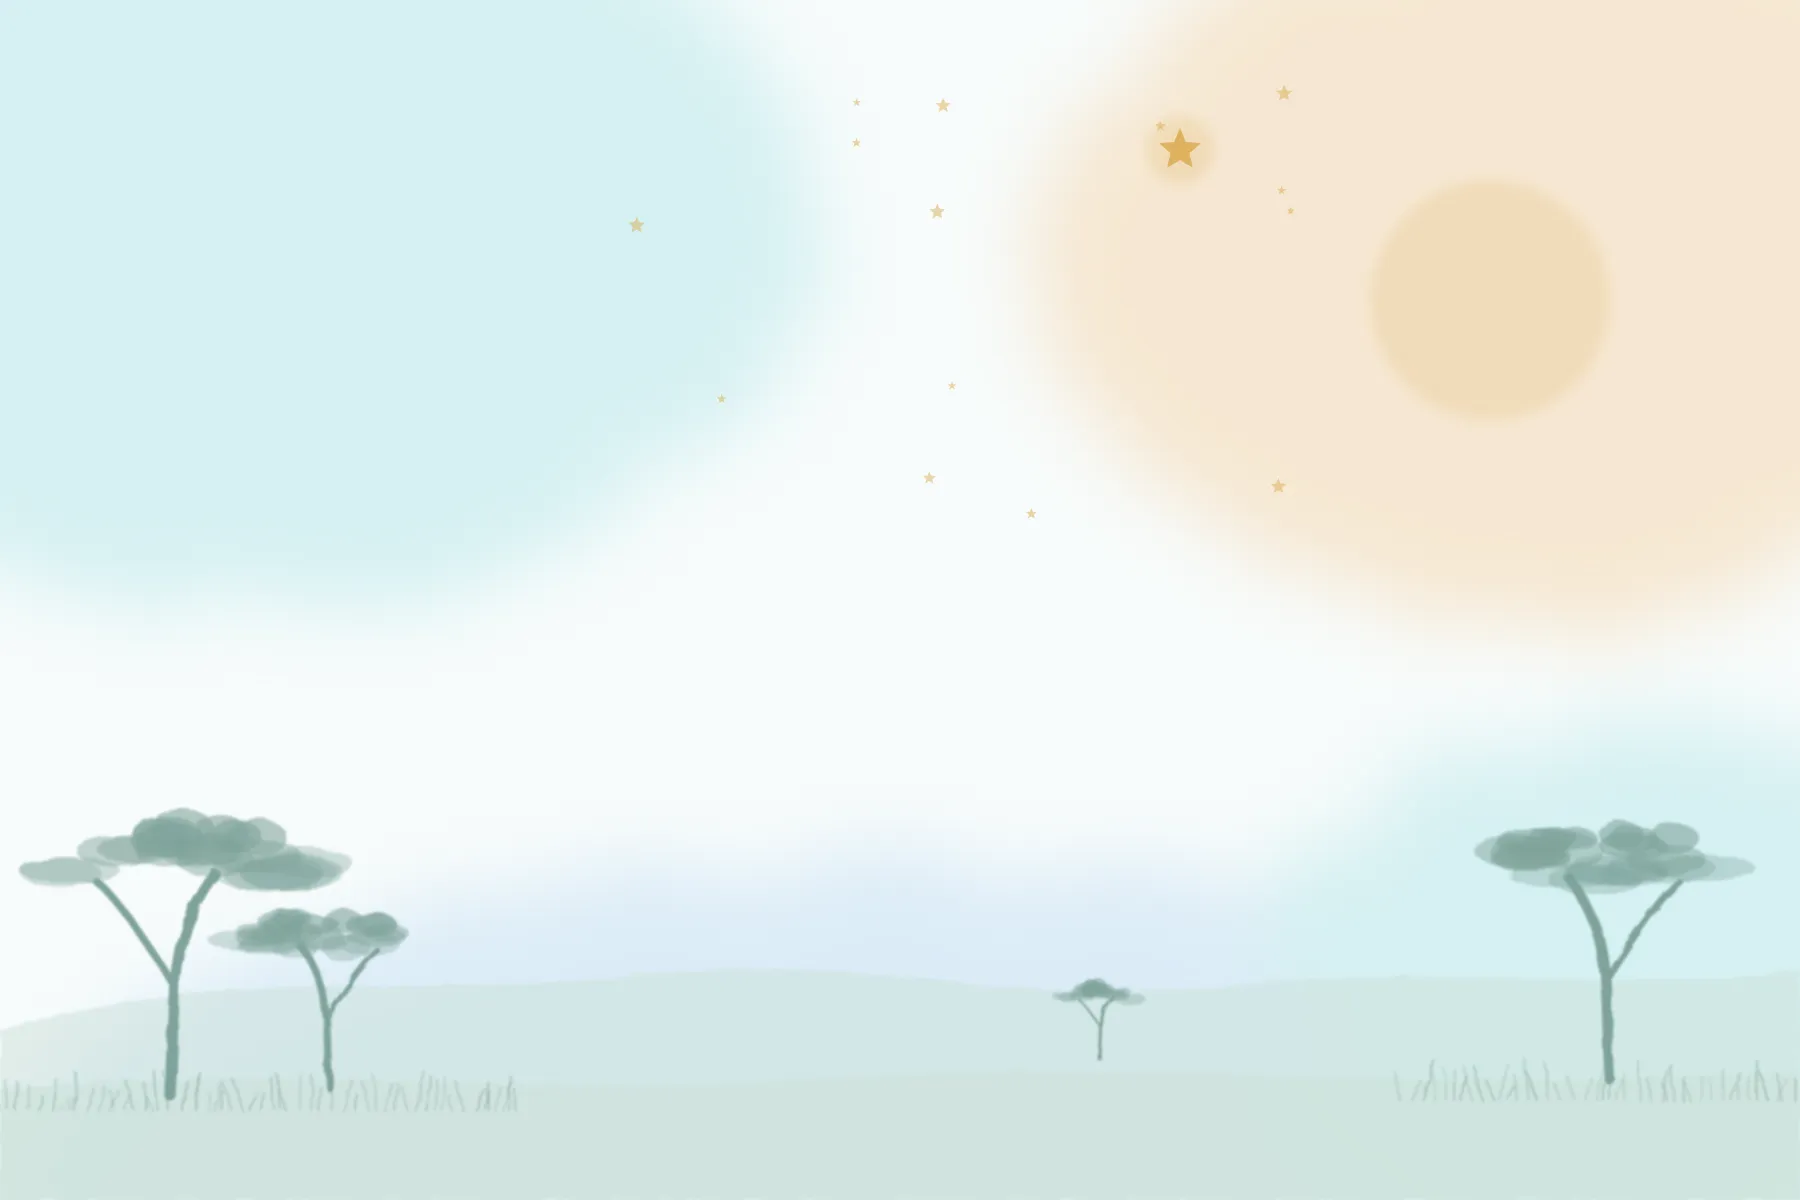
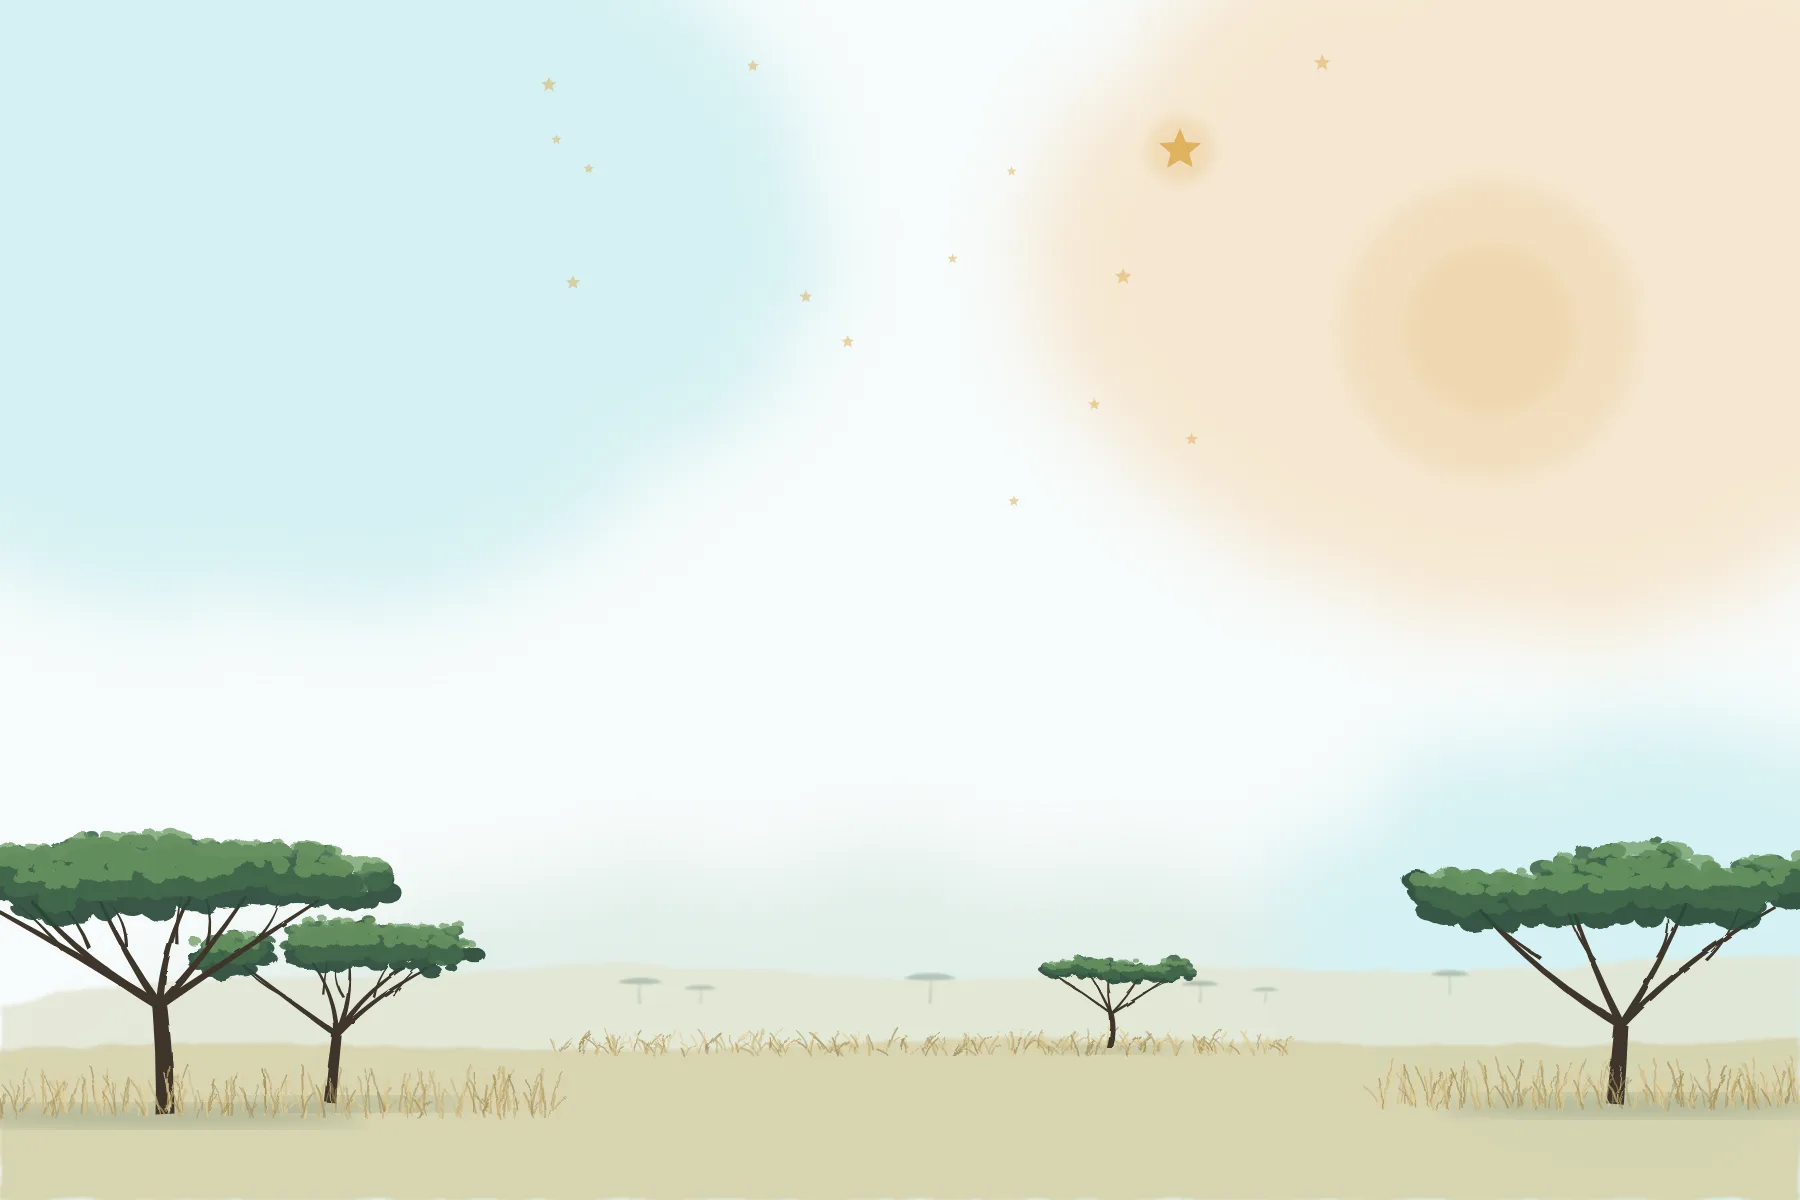
Repaint the savanna backgrounds with natural acacias
Umbrella thorn acacias now have a forked trunk with tapering limbs fanning
out to a wide, uneven crown of small leaf clusters in shade, leaf and
sunlit tones, with sky between the tiers and a soft ground shadow. Golden
grass tufts, a far line of hazy acacias on the horizon and a softer low sun
replace the flat shapes. Colours follow each scheme (dusk silhouettes in
Evening).

Claude-Session: https://claude.ai/code/session_01HFh4Kzq3CwbcJpqXKhK2f3

Changed region(s): [[0.0, 0.6783, 1.0, 1.0]]

diff --git a/scripts/paint_backgrounds.py b/scripts/paint_backgrounds.py
@@ -1,28 +1,81 @@
 #!/usr/bin/env python3
-"""Paint the soft watercolour backgrounds for each colour scheme: a savanna wash with acacia trees,
-distant hills and small gold stars ("We have seen his star", Matthew 2:2).
+"""Paint the soft watercolour backgrounds for each colour scheme: an East African savanna with umbrella thorn
+acacias, golden grass, distant hills and small gold stars ("We have seen his star", Matthew 2:2).
 
 Writes one SVG per scheme. Render each to services/web/app/static/art/<key>.webp at 1800x1200 so
 visitors' phones never compute the watercolour filters:
 
     python3 scripts/paint_backgrounds.py <out_dir>
-    (then open each SVG in a browser at 1800x1200, screenshot, save as WebP quality 80;
-     scripts/render_backgrounds.cjs does this with Playwright)
+    node scripts/render_backgrounds.cjs <out_dir>     (then convert the PNGs to WebP, quality 80)
 """
 
 import math
 import random
 import sys
+from dataclasses import dataclass
 from pathlib import Path
 
 W, H = 1800, 1200
 
-# key: paper, wash colours (top-left, top-right, bottom), hill colour, tree colour, star colour
+
+@dataclass(frozen=True)
+class Scheme:
+    paper: str
+    washes: tuple[str, str, str]  # top-left, top-right, bottom
+    hill: str
+    far_hill: str
+    canopy: tuple[str, str, str]  # shade, leaf, sunlit leaf
+    bark: str
+    grass: tuple[str, str, str]  # dry, darker, sunlit
+    haze: str  # distant trees
+    gold: str
+
+
 SCHEMES = {
-    "sunrise": ("#fdf8f2", ["#f9d9b8", "#f6c7b0", "#d9ece6"], "#e9cfae", "#b98c62", "#e2a93b"),
-    "coast": ("#f7fbfb", ["#cdeef0", "#f6e3c8", "#d4e8f6"], "#cfe3dc", "#7fa39a", "#d9a441"),
-    "highlands": ("#f8fbf4", ["#dcefd2", "#f4e7b8", "#cfe8e0"], "#c9ddb9", "#7d9a6a", "#d8a636"),
-    "evening": ("#fbf8fc", ["#e3d8f4", "#f7d6cf", "#d6e0f5"], "#ddd0e8", "#9d86ad", "#dcaa48"),
+    "sunrise": Scheme(
+        "#fdf8f2",
+        ("#f9d9b8", "#f6c7b0", "#e3eedf"),
+        "#e2c99f",
+        "#ecd9bd",
+        ("#3f4a22", "#5f6d2e", "#8e9a48"),
+        "#4a3424",
+        ("#c99a4e", "#a87c3a", "#e2bd78"),
+        "#b9a98a",
+        "#e2a93b",
+    ),
+    "coast": Scheme(
+        "#f7fbfb",
+        ("#cdeef0", "#f6e3c8", "#dcebe4"),
+        "#d6d2ad",
+        "#e3e6d4",
+        ("#2c4a38", "#436b4c", "#6e9a64"),
+        "#3e352b",
+        ("#c8b27a", "#a8935e", "#e0cc94"),
+        "#9fb3a6",
+        "#d9a441",
+    ),
+    "highlands": Scheme(
+        "#f8fbf4",
+        ("#dcefd2", "#f4e7b8", "#d6eadb"),
+        "#c5d6a6",
+        "#dde6cc",
+        ("#29452a", "#3f6a35", "#6f9a4c"),
+        "#40342a",
+        ("#a9b765", "#879a4c", "#cbd58a"),
+        "#9fb092",
+        "#d8a636",
+    ),
+    "evening": Scheme(
+        "#fbf8fc",
+        ("#e3d8f4", "#f7d6cf", "#e2dcef"),
+        "#d6c4d8",
+        "#e6dbe9",
+        ("#352c46", "#4a3f5e", "#665a7d"),
+        "#2b2436",
+        ("#a68aa2", "#8a7189", "#c4a9b9"),
+        "#b3a5c0",
+        "#dcaa48",
+    ),
 }
 
 FILTERS = """
@@ -32,12 +85,23 @@ FILTERS = """
     <feDisplacementMap in="SourceGraphic" in2="n" scale="90"/>
     <feGaussianBlur stdDeviation="38"/>
   </filter>
-  <filter id="wc" x="-20%" y="-20%" width="140%" height="140%">
-    <feTurbulence type="fractalNoise" baseFrequency="0.035" numOctaves="2" seed="4" result="n"/>
-    <feDisplacementMap in="SourceGraphic" in2="n" scale="7"/>
-    <feGaussianBlur stdDeviation="1.1"/>
+  <filter id="leaf" x="-10%" y="-30%" width="120%" height="160%">
+    <feTurbulence type="fractalNoise" baseFrequency="0.08" numOctaves="2" seed="3" result="n"/>
+    <feDisplacementMap in="SourceGraphic" in2="n" scale="5"/>
+    <feGaussianBlur stdDeviation="0.6"/>
   </filter>
+  <filter id="bark" x="-20%" y="-5%" width="140%" height="110%">
+    <feTurbulence type="fractalNoise" baseFrequency="0.05" numOctaves="2" seed="8" result="n"/>
+    <feDisplacementMap in="SourceGraphic" in2="n" scale="2.5"/>
+  </filter>
+  <filter id="hill" x="-5%" y="-20%" width="110%" height="140%">
+    <feTurbulence type="fractalNoise" baseFrequency="0.02" numOctaves="2" seed="5" result="n"/>
+    <feDisplacementMap in="SourceGraphic" in2="n" scale="10"/>
+    <feGaussianBlur stdDeviation="1.5"/>
+  </filter>
+  <filter id="haze"><feGaussianBlur stdDeviation="1.2"/></filter>
   <filter id="soft"><feGaussianBlur stdDeviation="6"/></filter>
+  <filter id="shadow"><feGaussianBlur stdDeviation="9"/></filter>
 </defs>
 """
 
@@ -51,83 +115,180 @@ def star(cx: float, cy: float, r: float) -> str:
     return " ".join(pts)
 
 
-def acacia(x: float, base: float, h: float, colour: str, rnd: random.Random, flip: bool = False) -> str:
-    """A flat-topped acacia: a forked trunk and a wide, layered umbrella canopy."""
-    s = -1 if flip else 1
-    top = base - h
-    trunk = (
-        f'<path d="M{x:.0f},{base:.0f} C{x + s * 6:.0f},{base - h * 0.4:.0f} {x - s * 4:.0f},{base - h * 0.62:.0f} '
-        f'{x + s * h * 0.18:.0f},{top + h * 0.12:.0f}" stroke="{colour}" stroke-width="{h * 0.045:.1f}" '
-        f'fill="none" stroke-linecap="round"/>'
-        f'<path d="M{x + s * 2:.0f},{base - h * 0.45:.0f} C{x - s * h * 0.1:.0f},{base - h * 0.62:.0f} '
-        f'{x - s * h * 0.22:.0f},{top + h * 0.2:.0f} {x - s * h * 0.3:.0f},{top + h * 0.14:.0f}" stroke="{colour}" '
-        f'stroke-width="{h * 0.03:.1f}" fill="none" stroke-linecap="round"/>'
+def limb(x0: float, y0: float, x1: float, y1: float, w0: float, w1: float, bend: float) -> str:
+    """A tapering branch from (x0, y0) to (x1, y1), as a filled shape so it narrows naturally."""
+    dx, dy = x1 - x0, y1 - y0
+    length = math.hypot(dx, dy) or 1
+    nx, ny = -dy / length, dx / length
+    cx, cy = (x0 + x1) / 2 + nx * bend, (y0 + y1) / 2 + ny * bend
+    return (
+        f"M{x0 + nx * w0 / 2:.1f},{y0 + ny * w0 / 2:.1f} "
+        f"Q{cx + nx * (w0 + w1) / 4:.1f},{cy + ny * (w0 + w1) / 4:.1f} {x1 + nx * w1 / 2:.1f},{y1 + ny * w1 / 2:.1f} "
+        f"L{x1 - nx * w1 / 2:.1f},{y1 - ny * w1 / 2:.1f} "
+        f"Q{cx - nx * (w0 + w1) / 4:.1f},{cy - ny * (w0 + w1) / 4:.1f} {x0 - nx * w0 / 2:.1f},{y0 - ny * w0 / 2:.1f} Z"
     )
-    canopy = []
-    for layer in range(3):
-        w = h * (1.05 - layer * 0.18)
-        cy = top + h * (0.1 - layer * 0.07)
-        for _ in range(7):
-            cx = x + s * h * 0.02 + rnd.uniform(-w / 2, w / 2)
-            rx = rnd.uniform(w * 0.14, w * 0.24)
-            ry = rnd.uniform(h * 0.05, h * 0.08)
-            canopy.append(
-                f'<ellipse cx="{cx:.0f}" cy="{cy + rnd.uniform(-h * 0.03, h * 0.03):.0f}" rx="{rx:.0f}" '
-                f'ry="{ry:.0f}" fill="{colour}" opacity="{0.35 + layer * 0.12:.2f}"/>'
+
+
+def acacia(x: float, base: float, h: float, s: Scheme, rnd: random.Random, lean: float = 0.0) -> str:
+    """An umbrella thorn acacia (Vachellia tortilis): a short trunk that forks into several limbs fanning out to a
+    wide, thin, flat-topped crown made of layered leaf pads, dark underneath and lit on top."""
+    width = h * rnd.uniform(1.7, 2.1)
+    crown_y = base - h  # top of the crown
+    crown_th = h * rnd.uniform(0.16, 0.22)  # crown thickness
+    under = crown_y + crown_th * 0.85  # where limbs meet the crown
+    cx = x + lean * h
+    trunk_w = max(3.0, h * 0.065)
+    fork_y = base - h * rnd.uniform(0.32, 0.42)
+    fork_x = x + lean * h * 0.35
+    out: list[str] = []
+
+    # Soft shadow on the ground
+    out.append(
+        f'<ellipse cx="{cx:.0f}" cy="{base + 4:.0f}" rx="{width * 0.42:.0f}" ry="{h * 0.045:.0f}" '
+        f'fill="{s.canopy[0]}" opacity="0.22" filter="url(#shadow)"/>'
+    )
+
+    # Trunk and limbs
+    wood = [limb(x, base + 2, fork_x, fork_y, trunk_w * 1.15, trunk_w * 0.9, rnd.uniform(-6, 6))]
+    n_limbs = rnd.randint(4, 6)
+    tips = []
+    for i in range(n_limbs):
+        t = (i + 0.5) / n_limbs
+        tx = cx - width * 0.42 + width * 0.84 * t + rnd.uniform(-width * 0.04, width * 0.04)
+        ty = under + rnd.uniform(-crown_th * 0.15, crown_th * 0.1)
+        w0 = trunk_w * rnd.uniform(0.42, 0.6)
+        wood.append(limb(fork_x, fork_y, tx, ty, w0, max(1.2, w0 * 0.35), rnd.uniform(-h * 0.08, h * 0.08)))
+        tips.append((tx, ty))
+        # A smaller side branch from part-way along each limb
+        mx, my = fork_x + (tx - fork_x) * 0.55, fork_y + (ty - fork_y) * 0.55
+        sx = mx + (tx - fork_x) * rnd.uniform(0.25, 0.5) + rnd.uniform(-width * 0.06, width * 0.06)
+        sy = under + rnd.uniform(-crown_th * 0.1, crown_th * 0.15)
+        wood.append(limb(mx, my, sx, sy, w0 * 0.45, 1.0, rnd.uniform(-h * 0.04, h * 0.04)))
+        tips.append((sx, sy))
+    out.append(f'<g filter="url(#bark)" fill="{s.bark}">' + "".join(f'<path d="{d}"/>' for d in wood) + "</g>")
+
+    # Crown: several overlapping pads, each a flattened cloud of small leaf clusters
+    # Each pad sits at its own height, so the crown reads as uneven tiers with sky showing between them.
+    pads = []
+    for tx, _ty in tips:
+        pads.append(
+            (
+                tx + rnd.uniform(-width * 0.05, width * 0.05),
+                rnd.uniform(width * 0.09, width * 0.16),
+                rnd.uniform(-crown_th * 0.35, crown_th * 0.3),
             )
-    return f'<g filter="url(#wc)">{trunk}{"".join(canopy)}</g>'
+        )
+    pads.append((cx, width * 0.2, -crown_th * 0.15))
+    pads.append((cx + rnd.uniform(-width * 0.15, width * 0.15), width * 0.12, -crown_th * 0.45))
+
+    def crown_layer(
+        colour: str, dy: float, height: float, size: tuple[float, float], density: float, alpha: str
+    ) -> str:
+        dots = []
+        for px, half, pad_dy in pads:
+            n = int(half * density)
+            for _ in range(n):
+                u = rnd.uniform(-1, 1)
+                # Flat top, ragged thinning ends and a soft underside
+                edge = 1 - u * u
+                if rnd.random() > 0.35 + 0.65 * edge:
+                    continue
+                local_h = height * math.sqrt(max(0.0, edge)) ** 0.6
+                dx = px + u * half
+                dy_ = (
+                    crown_y
+                    + pad_dy
+                    + dy
+                    + rnd.uniform(0, local_h)
+                    - (rnd.uniform(0, height * 0.5) if rnd.random() < 0.08 else 0)
+                )
+                r = rnd.uniform(*size)
+                dots.append(f'<ellipse cx="{dx:.1f}" cy="{dy_:.1f}" rx="{r * 1.5:.1f}" ry="{r:.1f}"/>')
+        return f'<g filter="url(#leaf)" fill="{colour}" opacity="{alpha}">{"".join(dots)}</g>'
+
+    k = h / 250
+    out.append(crown_layer(s.canopy[0], crown_th * 0.35, crown_th * 0.65, (4 * k + 1, 9 * k + 1.5), 0.9, "0.92"))
+    out.append(crown_layer(s.canopy[1], crown_th * 0.12, crown_th * 0.55, (3.5 * k + 1, 8 * k + 1.5), 0.85, "0.9"))
+    out.append(crown_layer(s.canopy[2], 0, crown_th * 0.28, (2.5 * k + 0.8, 5.5 * k + 1), 0.6, "0.75"))
+    return "<g>" + "".join(out) + "</g>"
 
 
-def grass(x0: float, x1: float, base: float, colour: str, rnd: random.Random) -> str:
+def far_tree(x: float, base: float, h: float, colour: str, rnd: random.Random) -> str:
+    """A distant acacia: a simple silhouette softened by the haze."""
+    width = h * rnd.uniform(1.6, 2.0)
+    top = base - h
+    trunk = limb(x, base, x + rnd.uniform(-2, 2), top + h * 0.2, max(1.2, h * 0.07), 0.8, rnd.uniform(-2, 2))
+    crown = (
+        f"M{x - width / 2:.1f},{top + h * 0.18:.1f} "
+        f"Q{x - width * 0.3:.1f},{top - h * 0.02:.1f} {x:.1f},{top:.1f} "
+        f"Q{x + width * 0.3:.1f},{top - h * 0.02:.1f} {x + width / 2:.1f},{top + h * 0.18:.1f} "
+        f"Q{x:.1f},{top + h * 0.3:.1f} {x - width / 2:.1f},{top + h * 0.18:.1f} Z"
+    )
+    return f'<g fill="{colour}" opacity="0.7" filter="url(#haze)"><path d="{trunk}"/><path d="{crown}"/></g>'
+
+
+def grass(x0: float, x1: float, base: float, s: Scheme, rnd: random.Random, tall: float = 1.0) -> str:
+    """Dry savanna grass: dense tufts of thin, curving blades in two or three tones."""
     blades = []
     x = x0
     while x < x1:
-        h = rnd.uniform(14, 40)
-        lean = rnd.uniform(-10, 10)
-        blades.append(
-            f'<path d="M{x:.0f},{base:.0f} q{lean / 2:.0f},{-h / 2:.0f} {lean:.0f},{-h:.0f}" stroke="{colour}" '
-            f'stroke-width="2" fill="none" opacity="{rnd.uniform(0.25, 0.5):.2f}" stroke-linecap="round"/>'
-        )
-        x += rnd.uniform(5, 14)
-    return f'<g filter="url(#wc)">{"".join(blades)}</g>'
+        tuft = rnd.randint(4, 9)
+        for _ in range(tuft):
+            h = rnd.uniform(12, 46) * tall
+            lean = rnd.uniform(-14, 14)
+            colour = rnd.choice(s.grass)
+            bx = x + rnd.uniform(-5, 5)
+            by = base + rnd.uniform(-3, 6)
+            blades.append(
+                f'<path d="M{bx:.1f},{by:.1f} q{lean * 0.3:.1f},{-h * 0.6:.1f} {lean:.1f},{-h:.1f}" stroke="{colour}" '
+                f'stroke-width="{rnd.uniform(1.1, 2.2):.1f}" fill="none" opacity="{rnd.uniform(0.45, 0.85):.2f}" '
+                f'stroke-linecap="round"/>'
+            )
+        x += rnd.uniform(9, 22)
+    return f'<g filter="url(#leaf)">{"".join(blades)}</g>'
 
 
 def paint(key: str) -> str:
-    paper, washes, hill, tree, gold = SCHEMES[key]
+    s = SCHEMES[key]
     rnd = random.Random(key)  # noqa: S311 - artwork, not security
     parts = [f'<svg xmlns="http://www.w3.org/2000/svg" width="{W}" height="{H}" viewBox="0 0 {W} {H}">', FILTERS]
-    parts.append(f'<rect width="{W}" height="{H}" fill="{paper}"/>')
-    # Broad watercolour washes
+    parts.append(f'<rect width="{W}" height="{H}" fill="{s.paper}"/>')
+    # Broad watercolour washes in the sky
     parts.append('<g filter="url(#wash)" opacity="0.8">')
-    parts.append(f'<ellipse cx="260" cy="230" rx="560" ry="380" fill="{washes[0]}"/>')
-    parts.append(f'<ellipse cx="1560" cy="260" rx="520" ry="360" fill="{washes[1]}"/>')
-    parts.append(f'<ellipse cx="900" cy="1180" rx="900" ry="320" fill="{washes[2]}"/>')
-    parts.append(f'<ellipse cx="1650" cy="980" rx="380" ry="260" fill="{washes[0]}"/>')
+    parts.append(f'<ellipse cx="260" cy="230" rx="560" ry="380" fill="{s.washes[0]}"/>')
+    parts.append(f'<ellipse cx="1560" cy="260" rx="520" ry="360" fill="{s.washes[1]}"/>')
+    parts.append(f'<ellipse cx="900" cy="1180" rx="900" ry="320" fill="{s.washes[2]}"/>')
+    parts.append(f'<ellipse cx="1650" cy="980" rx="380" ry="260" fill="{s.washes[0]}"/>')
     parts.append("</g>")
     # A low sun behind the right-hand trees
-    parts.append(f'<circle cx="1490" cy="300" r="120" fill="{gold}" opacity="0.16" filter="url(#soft)"/>')
-    # Distant hills along the bottom
+    parts.append(f'<circle cx="1490" cy="330" r="150" fill="{s.gold}" opacity="0.12" filter="url(#shadow)"/>')
+    parts.append(f'<circle cx="1490" cy="330" r="85" fill="{s.gold}" opacity="0.10" filter="url(#soft)"/>')
+    # Far hills, then the plain
     parts.append(
-        f'<path filter="url(#wc)" d="M0,1030 C250,960 420,1000 640,975 C860,950 1000,1010 1240,985 '
-        f'C1460,962 1620,995 1800,970 L1800,1200 L0,1200 Z" fill="{hill}" opacity="0.55"/>'
+        f'<path filter="url(#hill)" d="M0,1005 C180,965 330,985 520,968 C700,952 860,990 1060,972 '
+        f'C1260,955 1450,985 1620,962 C1700,952 1760,958 1800,955 L1800,1200 L0,1200 Z" fill="{s.far_hill}" opacity="0.85"/>'
     )
+    # Distant acacias on the horizon
+    for fx, fh in ((640, 26), (700, 18), (930, 30), (1200, 22), (1265, 15), (1450, 24)):
+        parts.append(far_tree(fx, 1000 + rnd.uniform(-6, 4), fh, s.haze, rnd))
     parts.append(
-        f'<path filter="url(#wc)" d="M0,1090 C300,1060 520,1100 820,1078 C1120,1056 1400,1096 1800,1070 '
-        f'L1800,1200 L0,1200 Z" fill="{hill}" opacity="0.7"/>'
+        f'<path filter="url(#hill)" d="M0,1050 C260,1030 520,1062 820,1045 C1120,1028 1420,1058 1800,1038 '
+        f'L1800,1200 L0,1200 Z" fill="{s.hill}" opacity="0.9"/>'
     )
-    # Acacias: a pair bottom-left, one bottom-right, a small far one
-    parts.append(acacia(170, 1095, 250, tree, rnd))
-    parts.append(acacia(330, 1088, 160, tree, rnd, flip=True))
-    parts.append(acacia(1610, 1080, 230, tree, rnd, flip=True))
-    parts.append(acacia(1100, 1060, 70, tree, rnd))
-    parts.append(grass(0, 520, 1110, tree, rnd))
-    parts.append(grass(1400, 1800, 1100, tree, rnd))
+    parts.append(grass(560, 1300, 1050, s, rnd, tall=0.45))
+    # Foreground acacias: a pair bottom-left, a lone tree bottom-right, a smaller one in the middle distance
+    parts.append(acacia(1110, 1046, 82, s, rnd, lean=0.05))
+    parts.append(acacia(330, 1100, 165, s, rnd, lean=0.12))
+    parts.append(acacia(165, 1112, 255, s, rnd, lean=-0.06))
+    parts.append(acacia(1615, 1102, 235, s, rnd, lean=0.08))
+    parts.append(grass(0, 560, 1112, s, rnd))
+    parts.append(grass(1380, 1800, 1104, s, rnd))
     # Small gold stars across the sky, one brighter
     for _ in range(14):
         cx, cy = rnd.uniform(500, 1350), rnd.uniform(60, 520)
-        parts.append(f'<polygon points="{star(cx, cy, rnd.uniform(4, 9))}" fill="{gold}" opacity="0.45"/>')
-    parts.append(f'<circle cx="1180" cy="150" r="34" fill="{gold}" opacity="0.18" filter="url(#soft)"/>')
-    parts.append(f'<polygon points="{star(1180, 150, 22)}" fill="{gold}" opacity="0.75"/>')
+        parts.append(f'<polygon points="{star(cx, cy, rnd.uniform(4, 9))}" fill="{s.gold}" opacity="0.45"/>')
+    parts.append(f'<circle cx="1180" cy="150" r="34" fill="{s.gold}" opacity="0.18" filter="url(#soft)"/>')
+    parts.append(f'<polygon points="{star(1180, 150, 22)}" fill="{s.gold}" opacity="0.75"/>')
     parts.append("</svg>")
     return "\n".join(parts)
 
